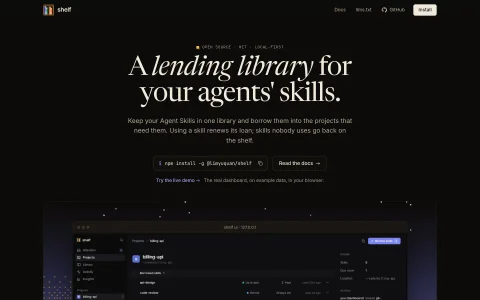
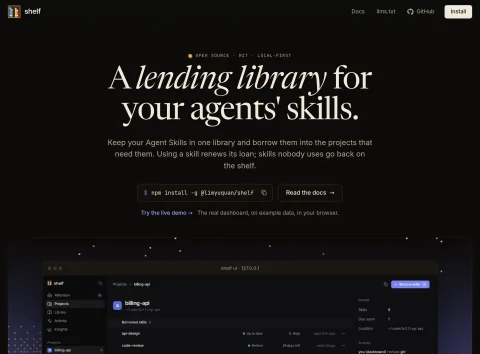
Crop the shelf landing screenshot to the page content width

diff --git a/docs/project-refresh.md b/docs/project-refresh.md
@@ -28,7 +28,7 @@ All product images are real browser screenshots exported to WebP. The refreshed 
 | `multitwitch-setup`, `multitwitch-watch`             | Live site, with xQc and ESLCS selected in an isolated browser session. Real live preview thumbnails and Twitch embeds; streams were played and no chat messages were sent.                                                                                                                                                                  |
 | `seatmap-populated-v2`, `seatmap-neighbours-v2`      | Live frontend with browser-only Convex response fixtures: 42 fictional claimed seats, generic nicknames, and sample freebie notes. The main view starts cleanly at the map controls rather than halfway through the concert heading. No real contact details and no production claims or writes.                                            |
 | `calendar-month-v2`, `calendar-event-v2`             | Live `https://nayacalendar.com/`, navigated to June 2026 to show an existing, populated schedule. Browser timezone: Asia/Singapore; browser clock: 1 June 2026, so upcoming events retain their actual active styling instead of the past-event dimming. The close-up shows the real Set The Tempo Comeback modal at a 1000 × 625 viewport. |
-| `shelf-home`                                         | The live landing page above the fold at 1440 × 900 (2×).                                                                                                                                                                                                                                                                                    |
+| `shelf-home`                                         | The live landing page above the fold at 1440 × 900 (2×), cropped to the page content width so the empty side margins do not show.                                                                                                                                                                                                           |
 | `shelf-attention`, `shelf-project`, `shelf-insights` | The repository's published dashboard media (`assets/media/dashboard.png`, `project.png`, `insights.png`), which use the project's example data.                                                                                                                                                                                             |
 | `planner-home`                                       | The landing page above the fold at 1440 × 900 (2×), with the hero's live demo running. The site and its in-memory demo were built from the public repository (`npm run build:demo`) and served locally because the headless browser could not reach github.io; the content is identical to the published page.                              |
 | `planner-panes`, `planner-settings`, `planner-recap` | The repository's own published landing-page media (`site/media/hero.png`, `settings.jpg`, `page-recap-chart.jpg`): three split panes of the demo plans, the settings dialog with its live preview, and an agent-written recap page. They show the repository's sample docs, not work documents.                                             |
